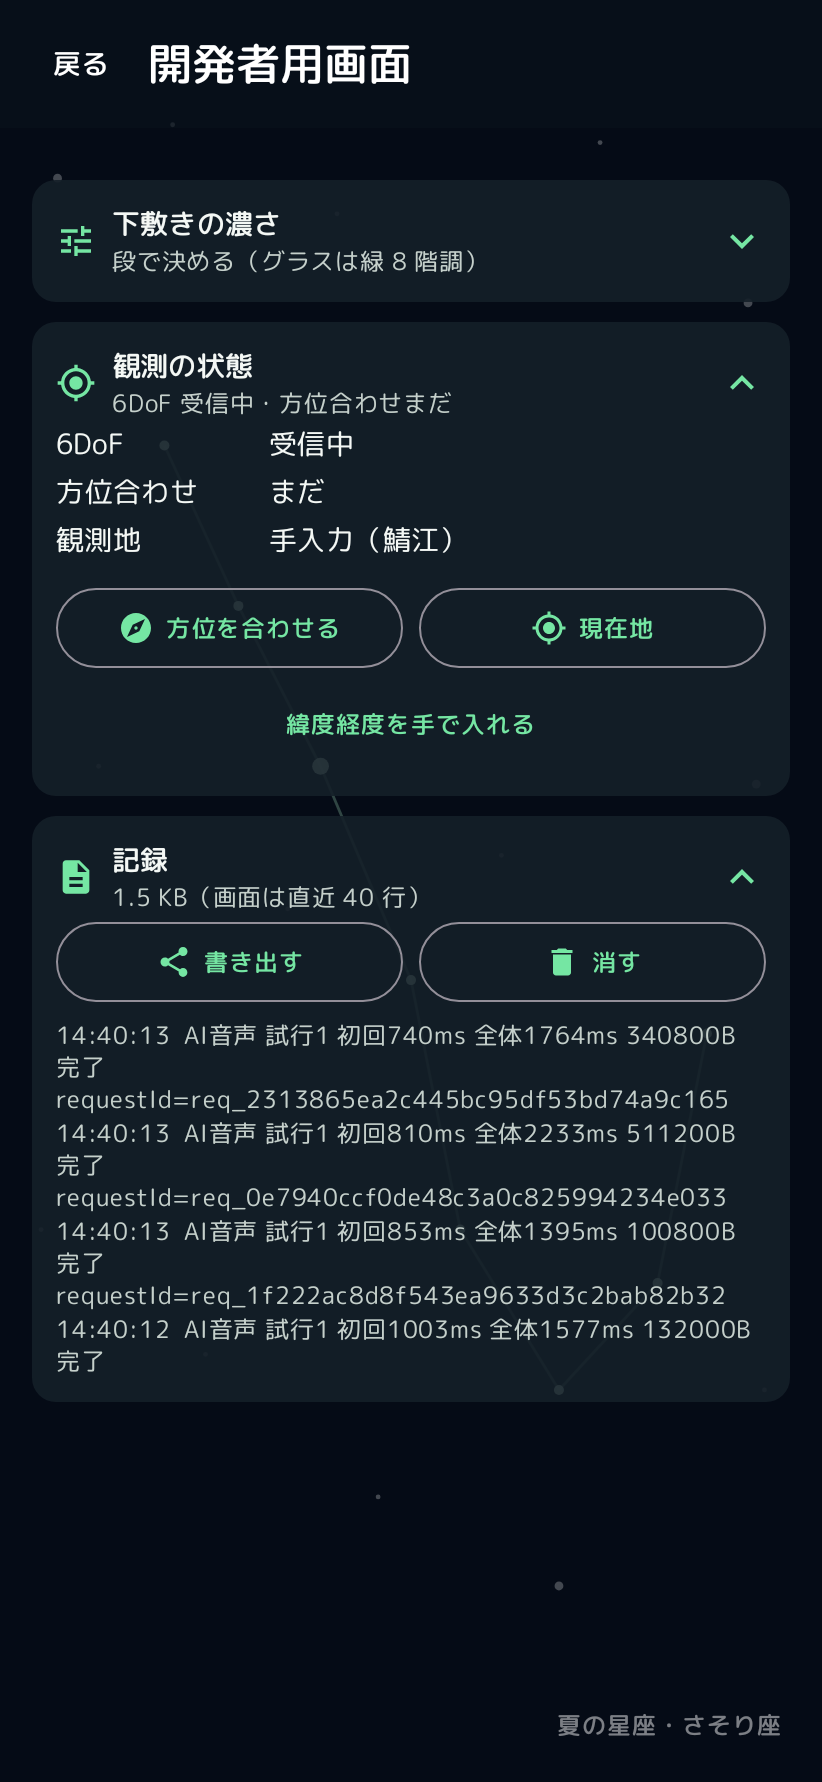
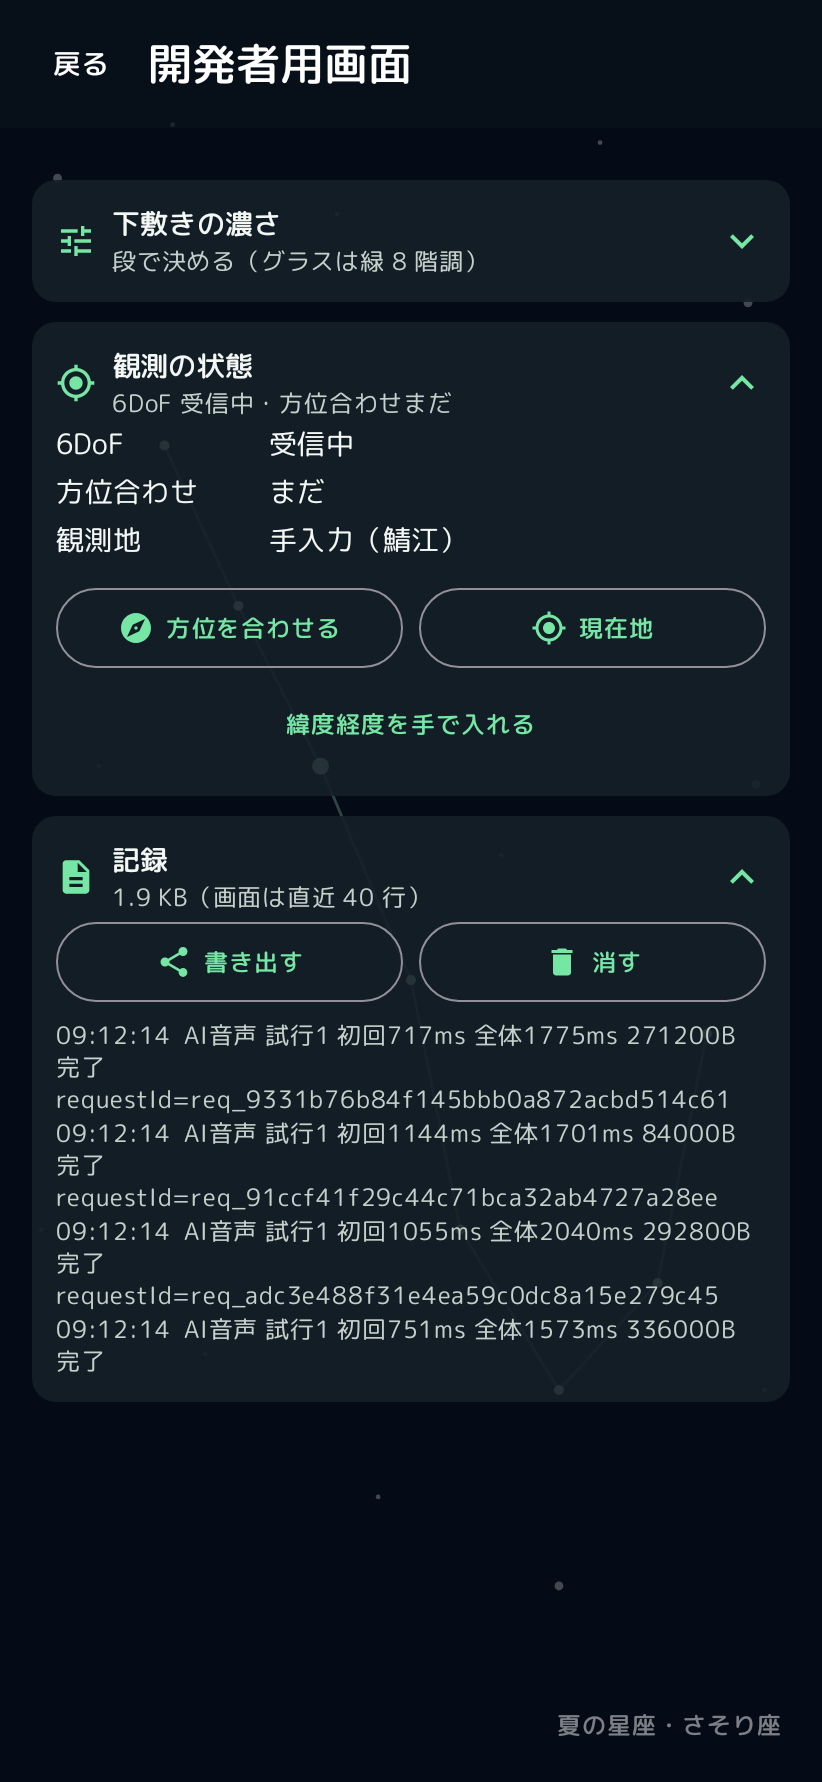
docs: アプリ名を「星導」に直し、デモ画像を撮り直す
スマホ側の 5 枚は画面に日付が入るので、作り直すと当日の日付になる。
グラス側は時刻を固定して焼いているので差分は出ない。

diff --git a/README.md b/README.md
@@ -1,6 +1,11 @@
-# 星しるべ
+# 星導 - Hoshishirube -
 
-> 空にかざしたSABERAへ星座を重ね、見ている星空を音声で案内するアプリ
+## 概要
+
+> SABERAをかけて空を見上げると星座が重なり、見ている星空をハンズフリーで案内するアプリ
+
+
+- ツルをダブルタップで、天体の名前を
 
 ## できること
 
